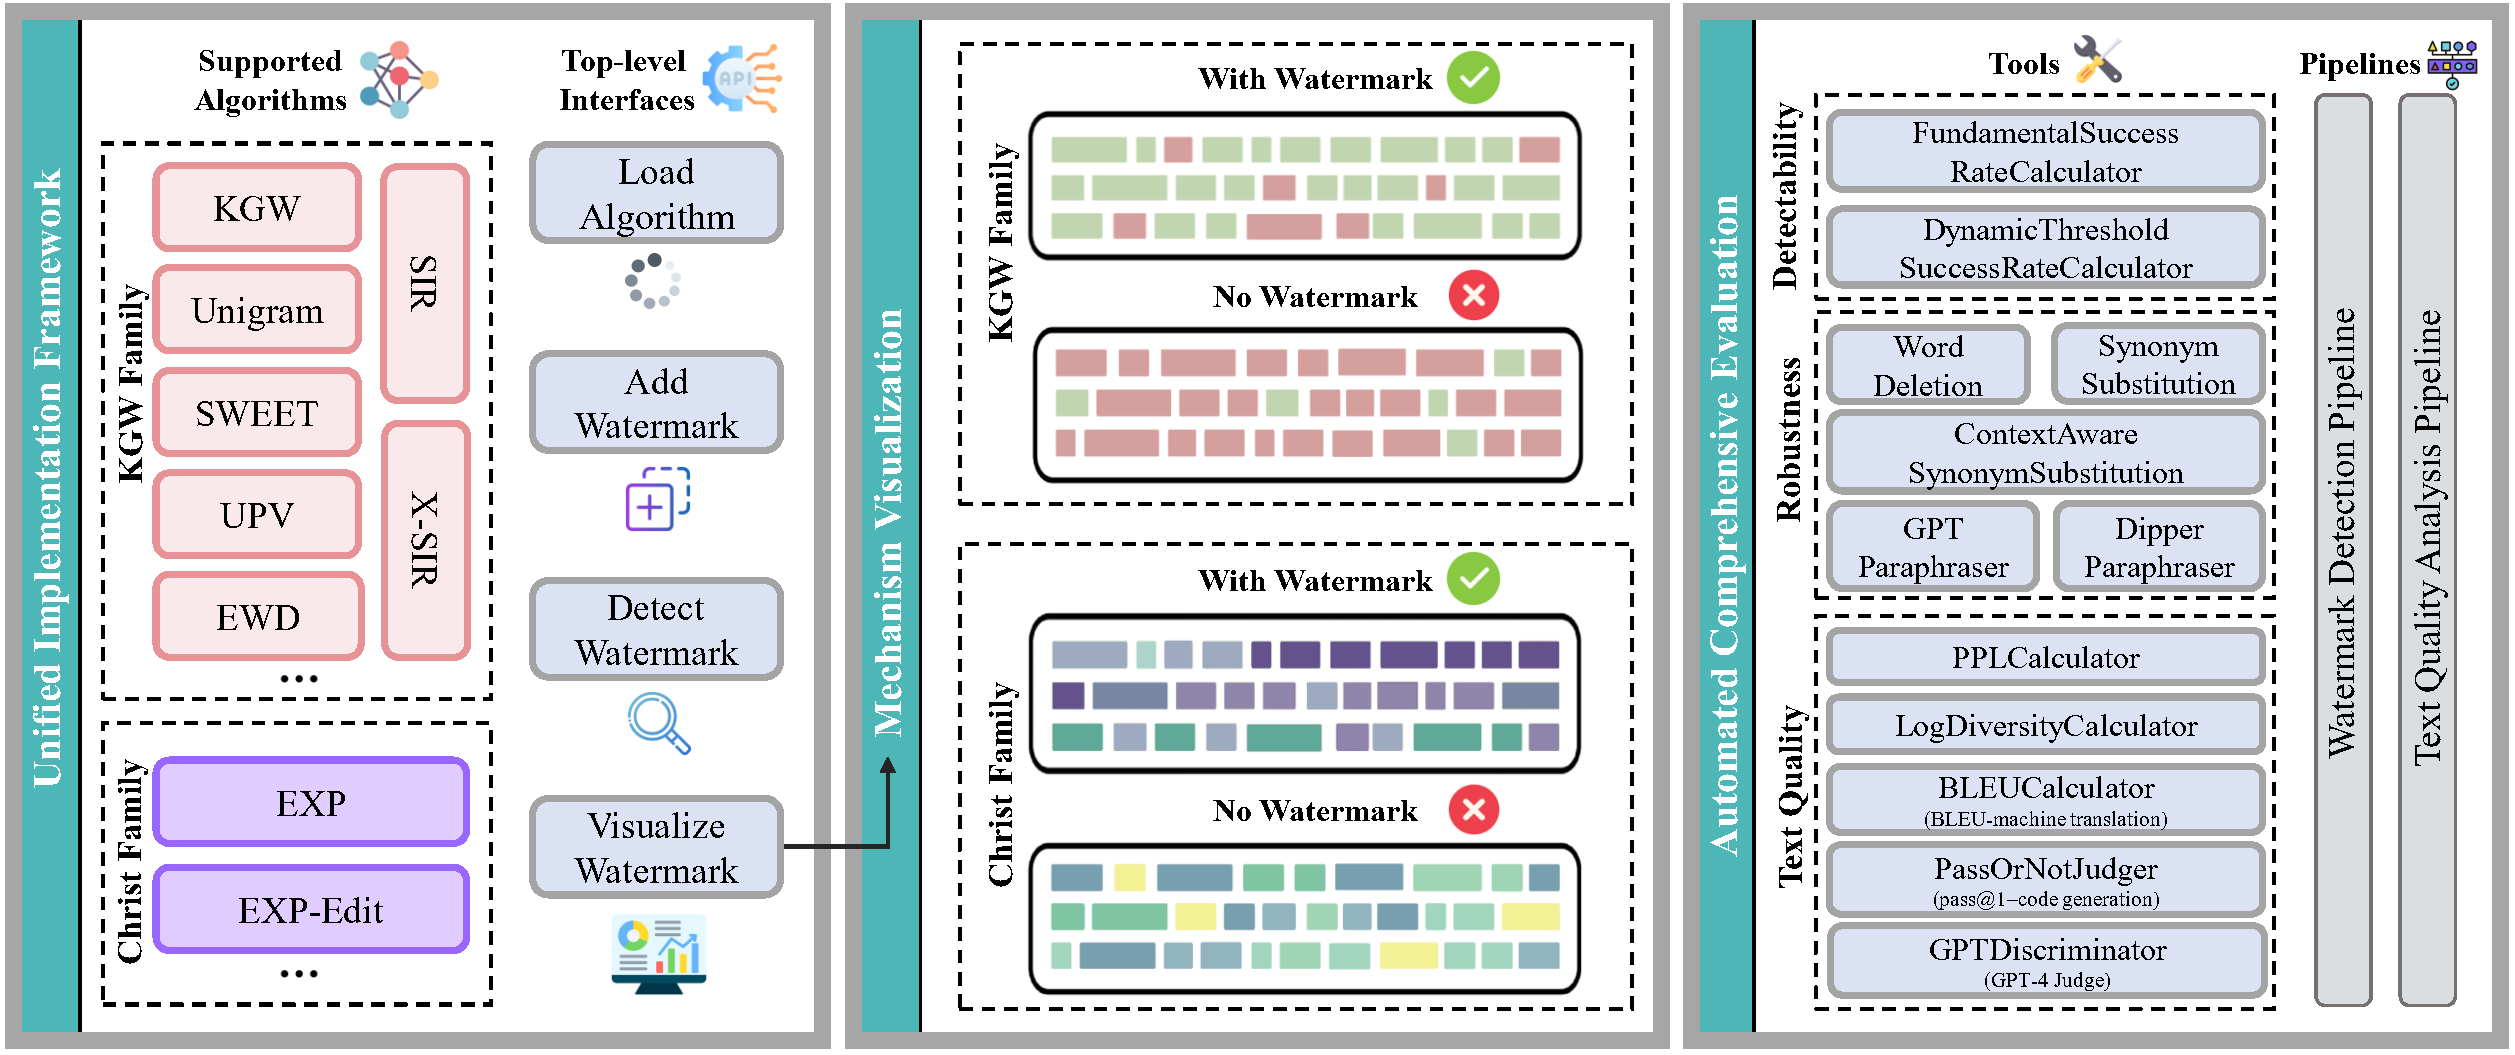
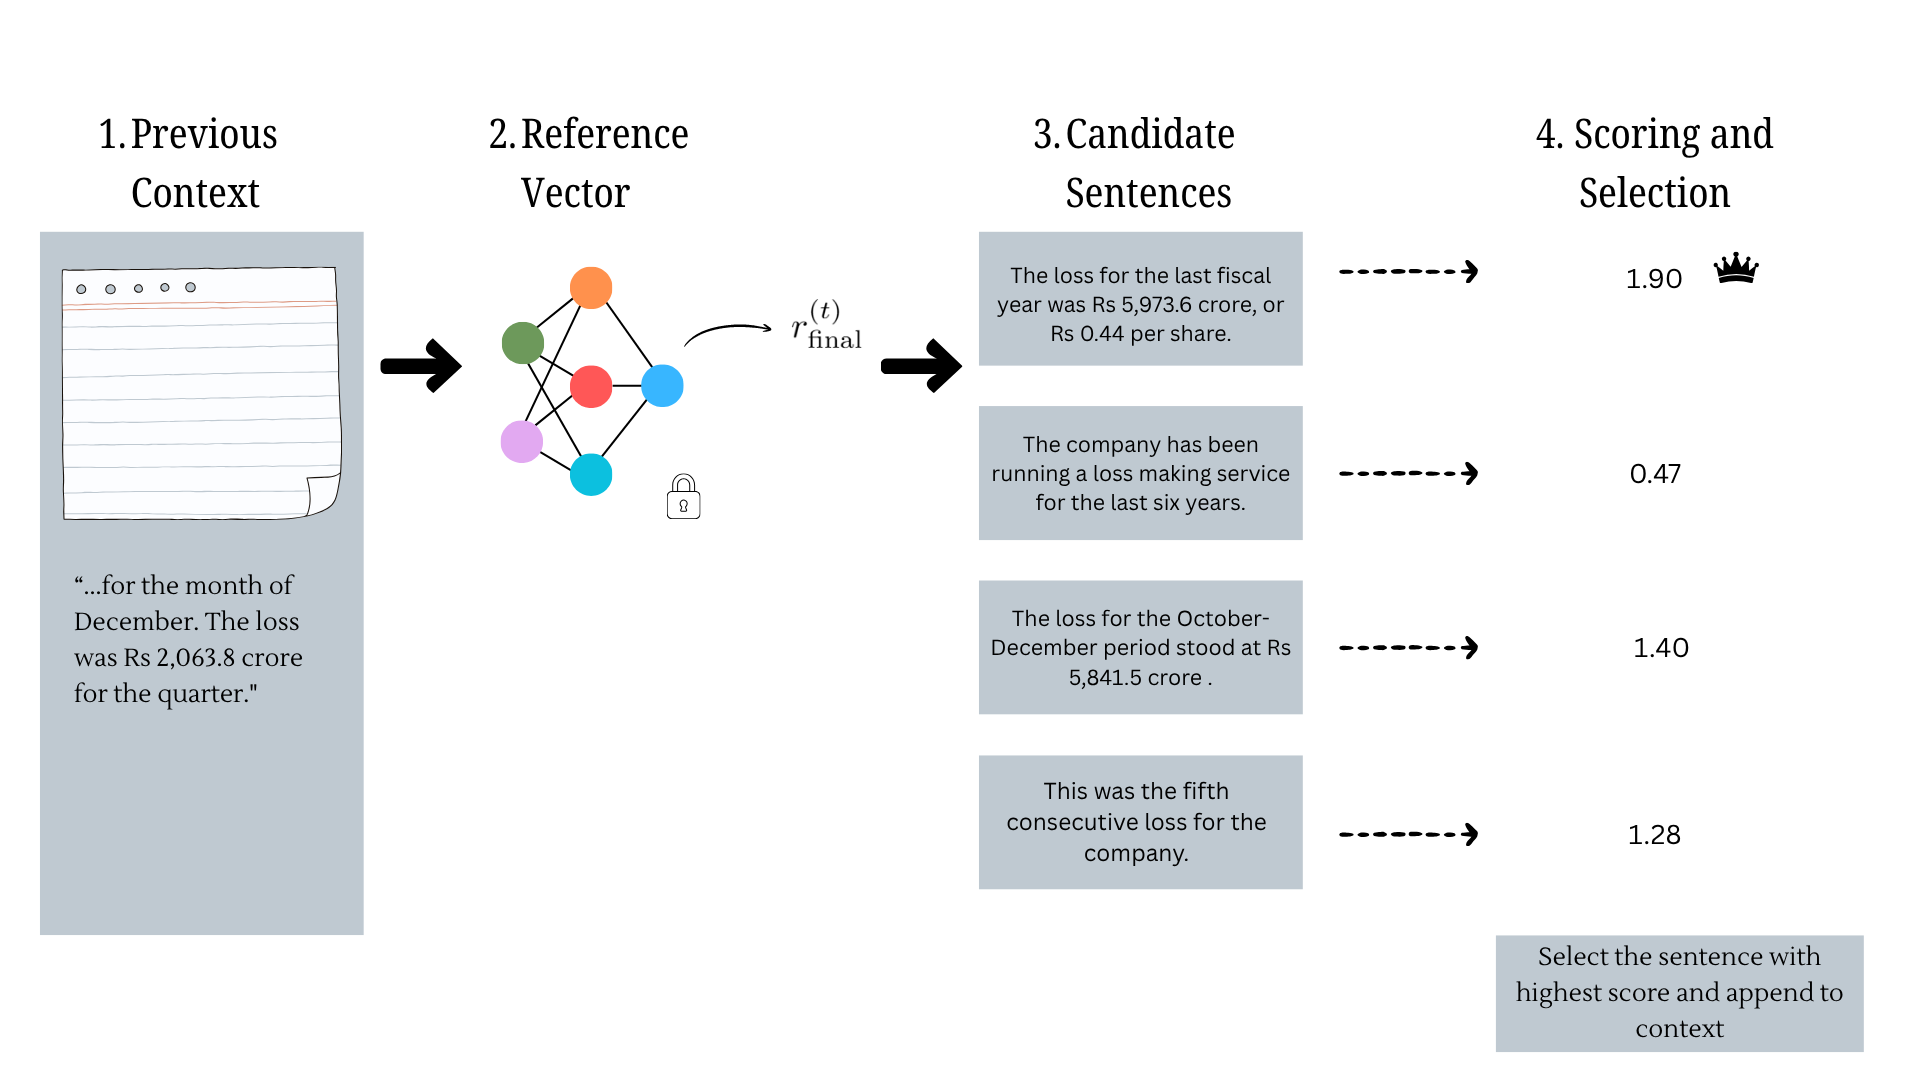
updated readme

diff --git a/README.md b/README.md
@@ -6,7 +6,7 @@ SemMax emits the one whose embedding best aligns with a context-dependent refere
 direction. Because the signal is a real-valued alignment rather than a discrete
 signal, it degrades gradually rather than abruptly under text modifications.
 
-
+![Overview](images/overview.png)
 ## 1. Setup
 
 ```bash
